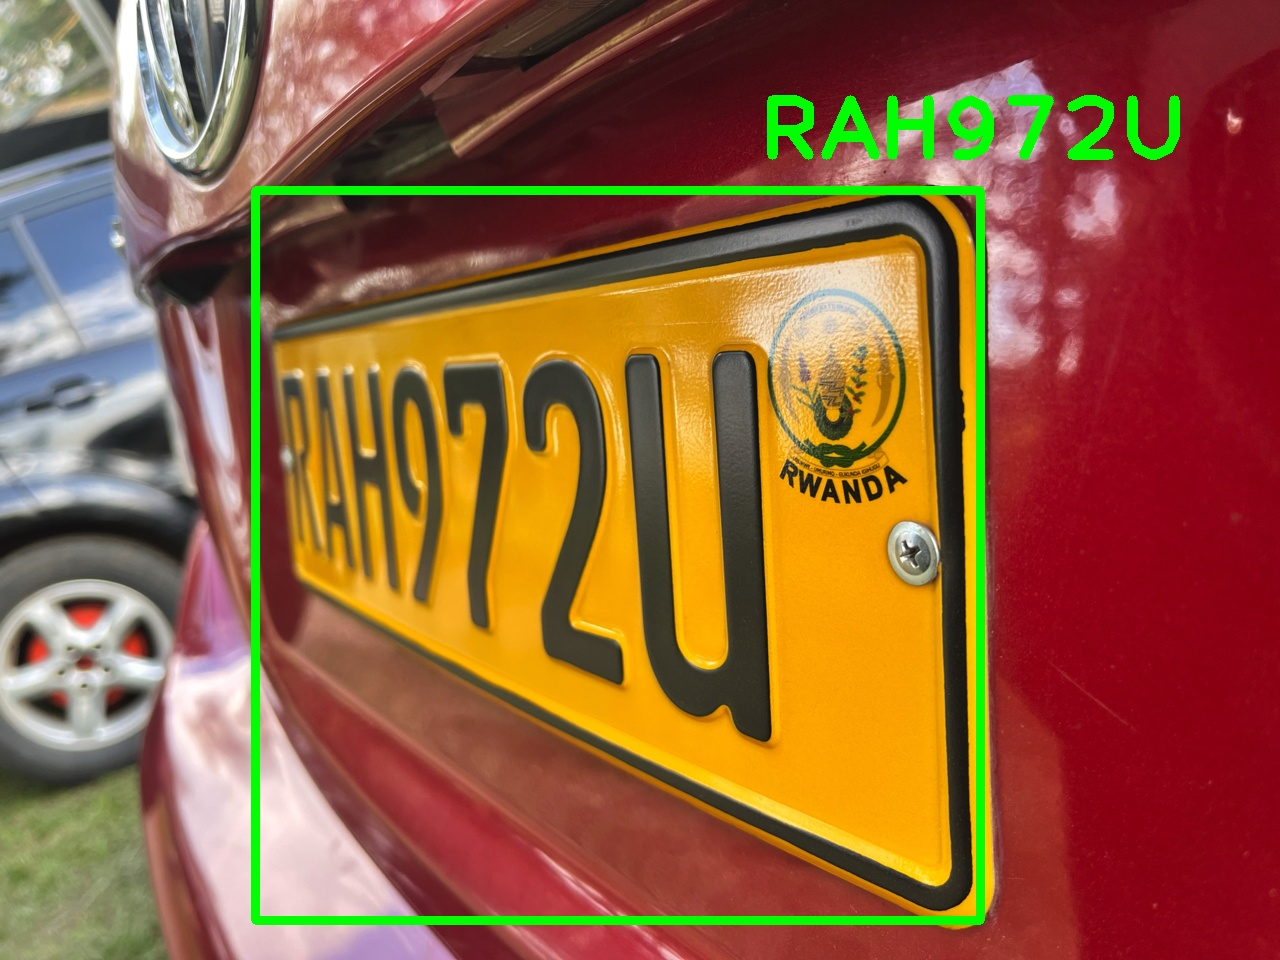
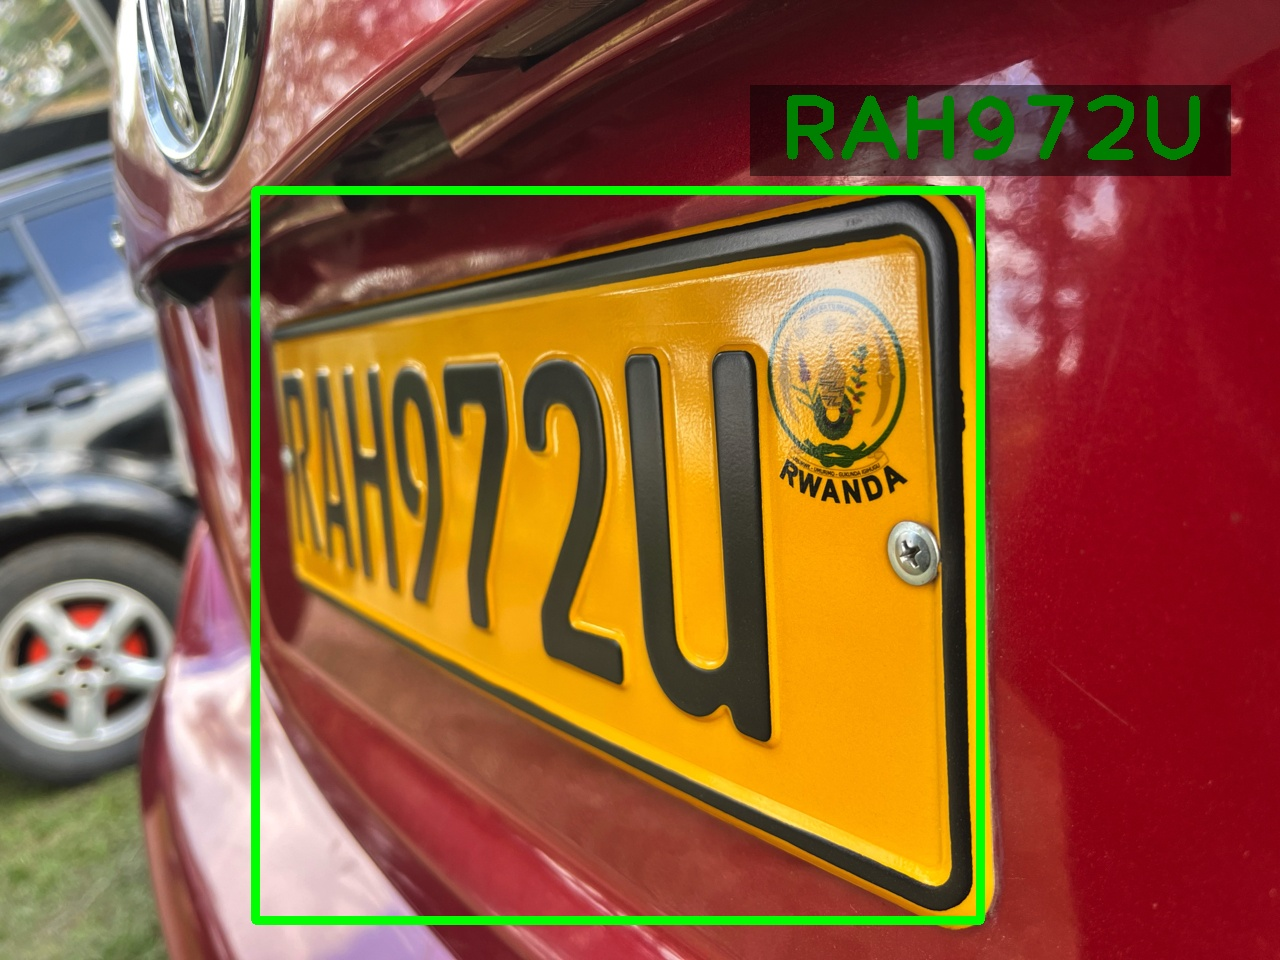
added rect shadow

Changed region(s): [[0.5625, 0.0625, 0.9688, 0.1875]]

diff --git a/assignement/11_assigment.py b/assignement/11_assigment.py
@@ -12,7 +12,8 @@ cv2.rectangle(image, (255, 190), (980, 920), (0, 255, 0), 8)
 # Add text to the image
 # Text: 'RAH972U', Location (x,y): (100, 200)
 # Font: FONT_HERSHEY_SIMPLEX, Scale: 1, Color: Green (BGR: (0, 255, 0)), Thickness: 14
-cv2.putText(image, 'RAH972U', (760, 160), cv2.FONT_HERSHEY_PLAIN, 6, (0, 255, 0), 10)
+cv2.putText(image, 'RAH972U', (780, 160), cv2.FONT_HERSHEY_PLAIN, 6, (0, 255, 0), 10)
+cv2.addWeighted(cv2.rectangle(image.copy(), (750, 85), (1230, 175), (0, 0, 0), -1), 0.5, image, 1 - 0.5, 0, dst=image)
 
 # Display the image in a new window named 'Image'
 cv2.imshow('Image', image)
